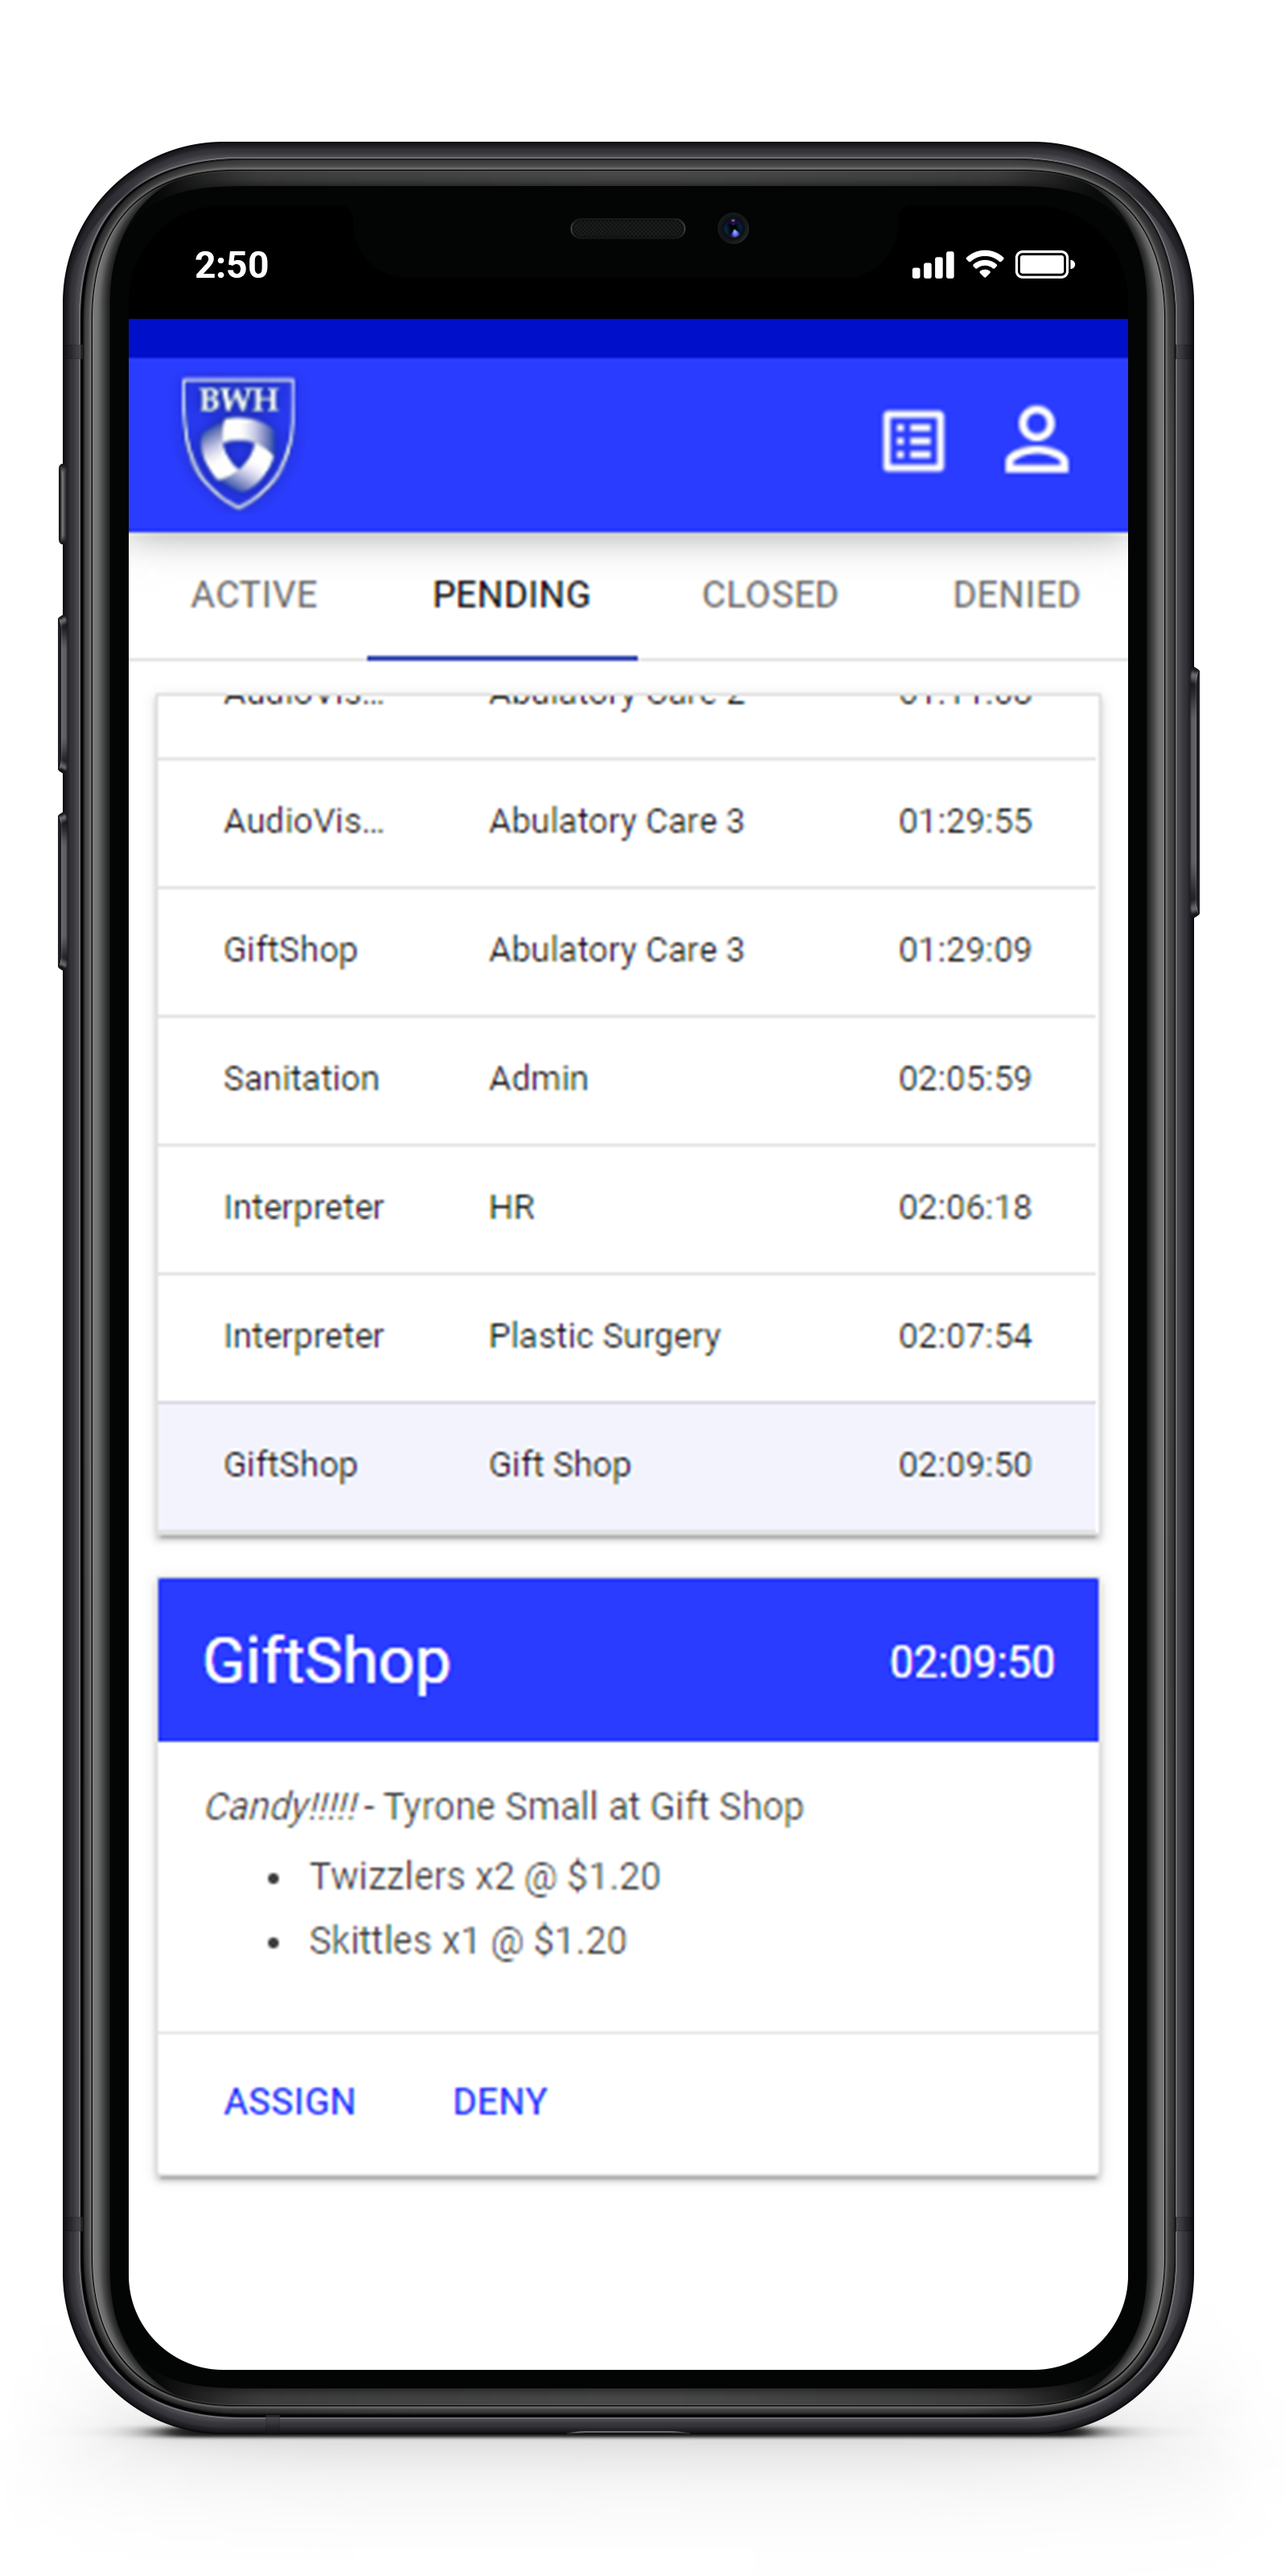
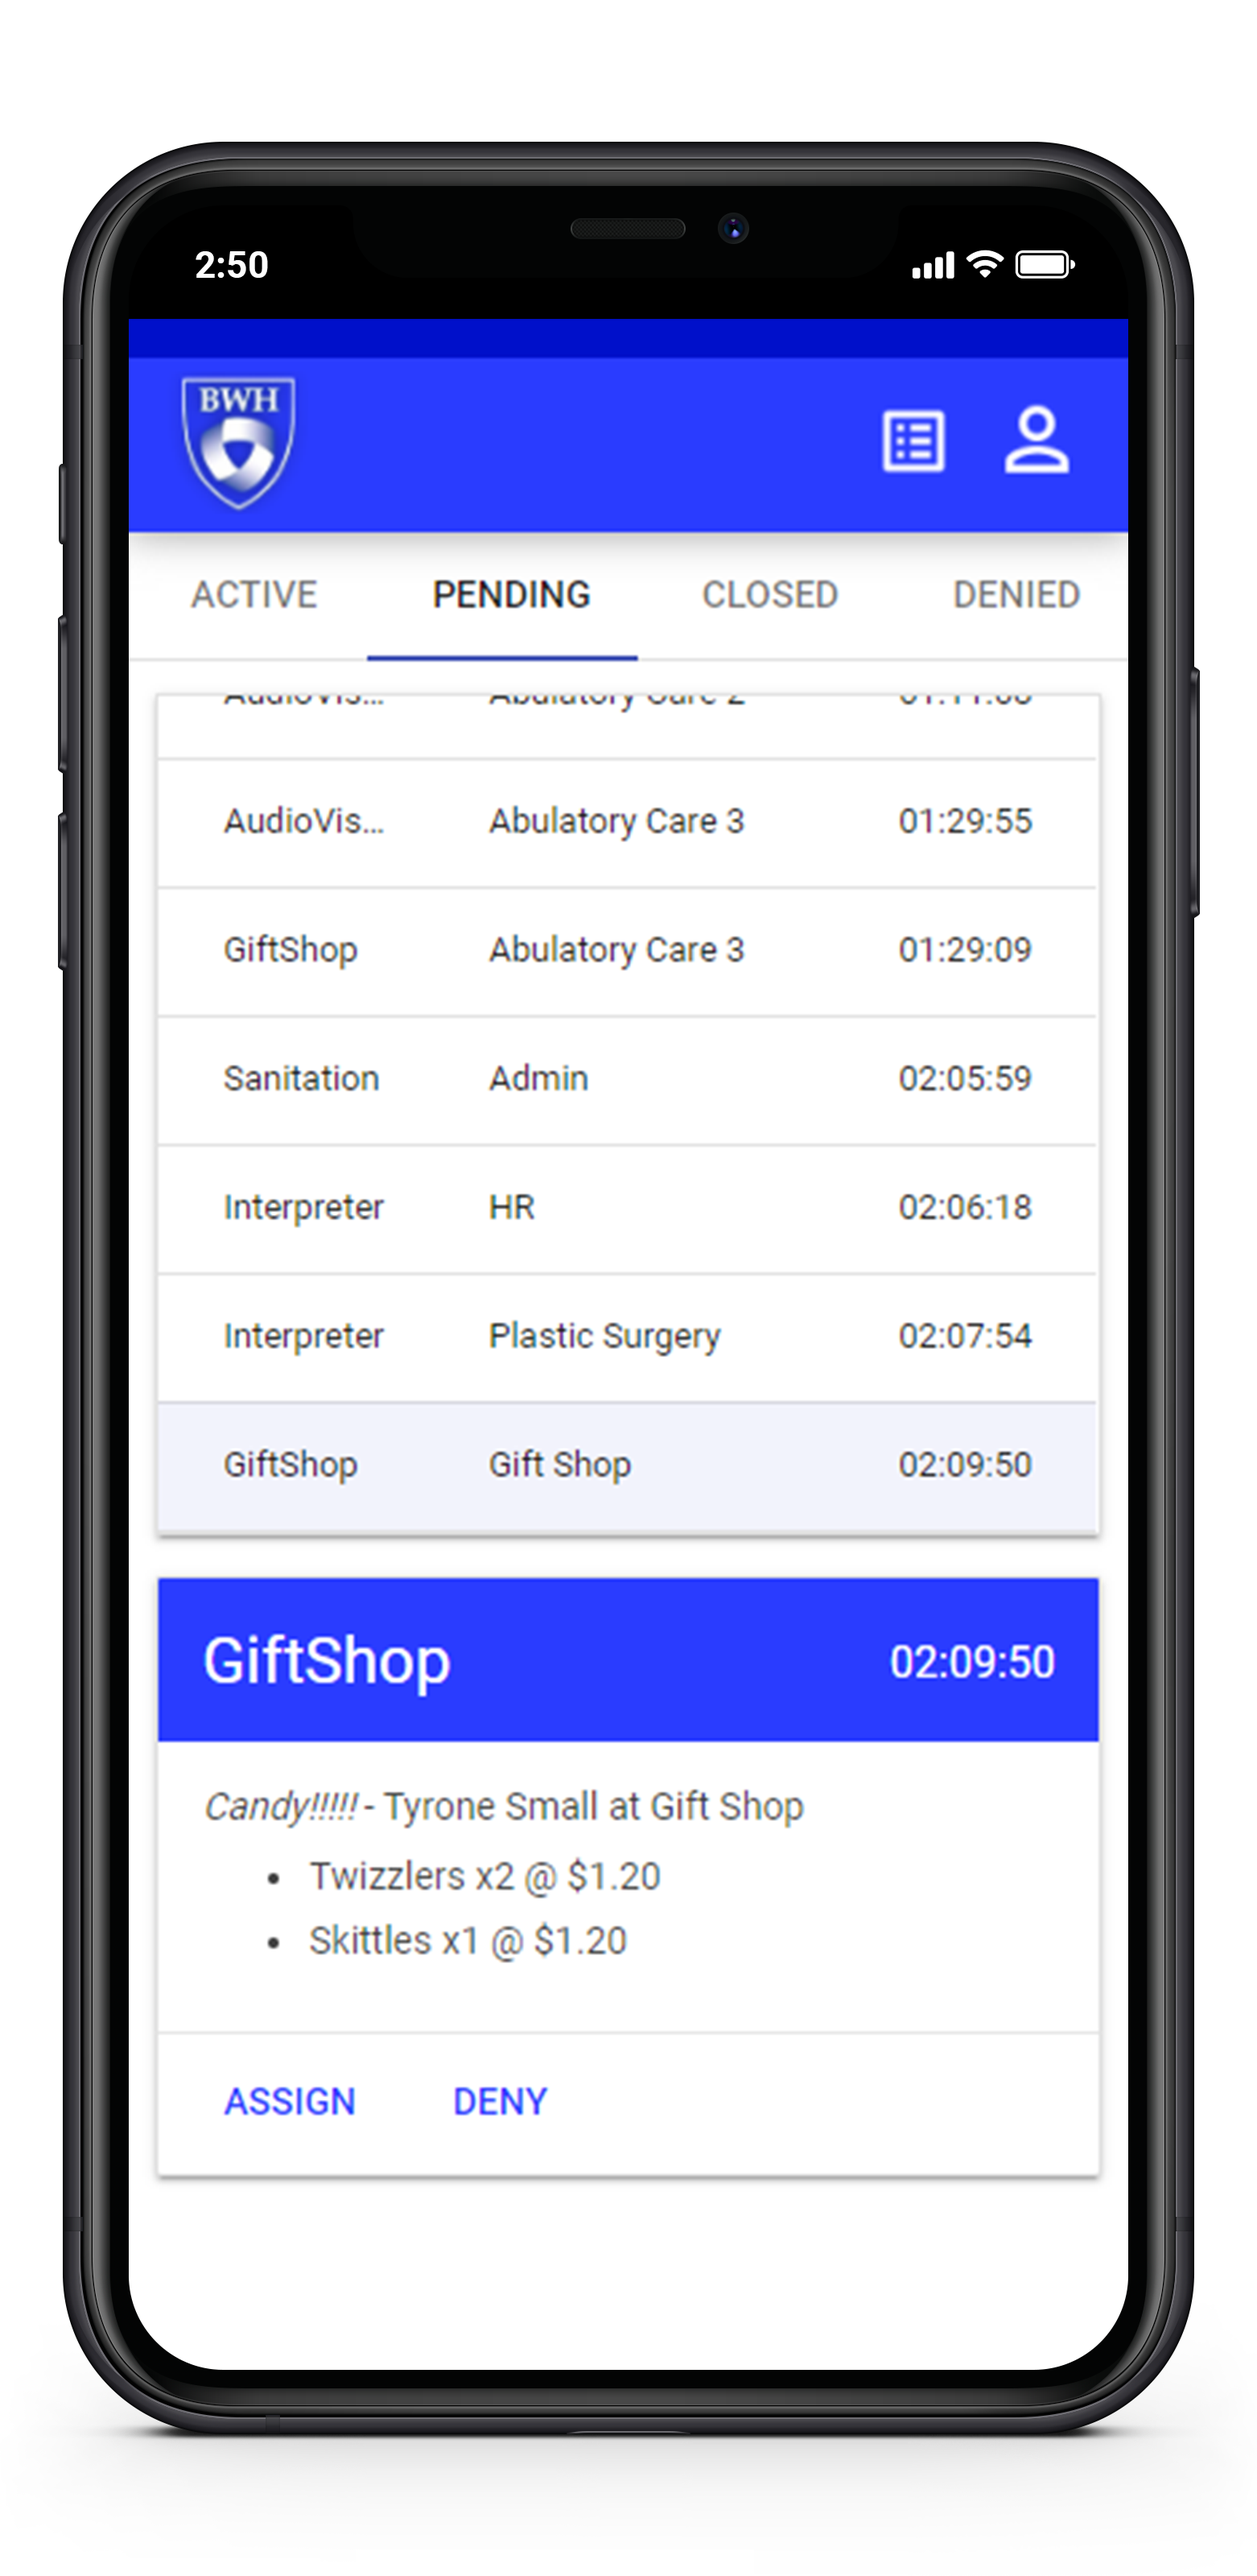
Fix CSS issues with iPhone mock carousel

diff --git a/src/app/page-components/development-carousel/development-carousel.component.scss b/src/app/page-components/development-carousel/development-carousel.component.scss
@@ -9,6 +9,7 @@
   background-color: rgba(0, 0, 0, 0.25);
   padding: 0;
   color: mat-color($mat-neon-grey, 100);
+  margin: 0 10px;
 }
 
 .button-rotate:hover {
@@ -42,14 +43,12 @@ img {
   z-index: 0;
   left: calc((1100px - 325px) / 2);
   width: 325px;
-  padding: 50px 0;
   opacity: 0.25;
 }
 
 .img-side {
   z-index: 5;
   width: 350px;
-  padding: 25px 0;
 }
 
 .img-left {
@@ -57,7 +56,7 @@ img {
 }
 
 .img-right {
-  left: calc(1100px - 375px);
+  left: calc(1100px - 350px);
 }
 
 .div-circle {
@@ -65,7 +64,7 @@ img {
   height: 12px;
   border-radius: 12px;
   background-color: rgba(255, 255, 255, 0.45);
-  margin: -10px 3px 30px 3px;
+  margin: -10px 3px 25px 3px;
 }
 
 .div-circle.active {

diff --git a/src/app/page-components/development-carousel/development-carousel.component.html b/src/app/page-components/development-carousel/development-carousel.component.html
@@ -1,6 +1,6 @@
 <div fxLayoutAlign="center center">
   <button class="button-rotate" mat-flat-button (click)="callRotate(false)"><mat-icon>keyboard_arrow_left</mat-icon></button>
-  <div id="div-carousel">
+  <div id="div-carousel" fxLayout="column" fxLayoutAlign="center">
     <img #img class="img-left img-side" [src]="contentPath + contentCount + '.png'" alt="">
     <img #img class="img-front" [src]="contentPath + '1.png'" alt="">
     <img #img class="img-right img-side" [src]="contentPath + '2.png'" alt="">

diff --git a/src/app/page-components/development-entry/development-entry.component.scss b/src/app/page-components/development-entry/development-entry.component.scss
@@ -44,10 +44,6 @@
   box-shadow: 0 0 4px mat-color($mat-neon-grey, 400);
 }
 
-#img-content {
-  width: 1100px;
-}
-
 // info: client, role, technologies, platform, work
 
 #div-info {
